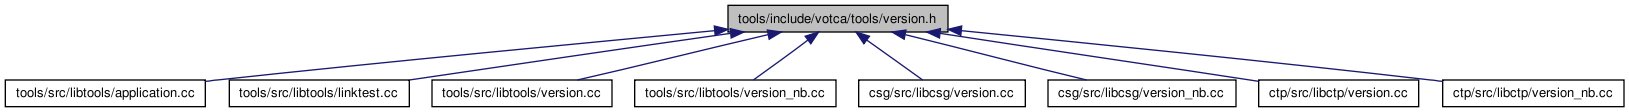
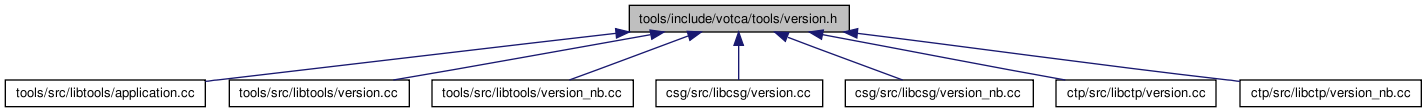
Documentation update

diff --git a/globals.html b/globals.html
@@ -87,30 +87,29 @@ Here is a list of all file members with links to the files they belong to:
 </ul>
 <h3><a class="anchor" name="index_m">- m -</a></h3><ul>
 <li>main()
-: <a class="el" href="linktest_8cc.html#3c04138a5bfe5d72780bb7e82a18e627">linktest.cc</a>
-, <a class="el" href="votca__property_8cc.html#3c04138a5bfe5d72780bb7e82a18e627">votca_property.cc</a>
-, <a class="el" href="template__threaded_8cc.html#3c04138a5bfe5d72780bb7e82a18e627">template_threaded.cc</a>
+: <a class="el" href="votca__property_8cc.html#3c04138a5bfe5d72780bb7e82a18e627">votca_property.cc</a>
+, <a class="el" href="template__serial_8cc.html#3c04138a5bfe5d72780bb7e82a18e627">template_serial.cc</a>
+, <a class="el" href="main_8cc.html#3c04138a5bfe5d72780bb7e82a18e627">main.cc</a>
 , <a class="el" href="polymer_8cc.html#3c04138a5bfe5d72780bb7e82a18e627">polymer.cc</a>
 , <a class="el" href="ctp__run_8cc.html#3c04138a5bfe5d72780bb7e82a18e627">ctp_run.cc</a>
 , <a class="el" href="ctp__map_8cc.html#3c04138a5bfe5d72780bb7e82a18e627">ctp_map.cc</a>
 , <a class="el" href="ctp__connectivity_8cc.html#3c04138a5bfe5d72780bb7e82a18e627">ctp_connectivity.cc</a>
 , <a class="el" href="kmc__run_8cc.html#3c04138a5bfe5d72780bb7e82a18e627">kmc_run.cc</a>
 , <a class="el" href="write__S_8cc.html#3c04138a5bfe5d72780bb7e82a18e627">write_S.cc</a>
-, <a class="el" href="write__MO_8cc.html#3c04138a5bfe5d72780bb7e82a18e627">write_MO.cc</a>
-, <a class="el" href="csg__dump_8cc.html#3c04138a5bfe5d72780bb7e82a18e627">csg_dump.cc</a>
+, <a class="el" href="csg__fmatch_8cc.html#3c04138a5bfe5d72780bb7e82a18e627">csg_fmatch.cc</a>
+, <a class="el" href="write__EV_8cc.html#3c04138a5bfe5d72780bb7e82a18e627">write_EV.cc</a>
 , <a class="el" href="moo__overlap_8cc.html#3c04138a5bfe5d72780bb7e82a18e627">moo_overlap.cc</a>
 , <a class="el" href="csg__stat_8cc.html#3c04138a5bfe5d72780bb7e82a18e627">csg_stat.cc</a>
 , <a class="el" href="csg__resample_8cc.html#3c04138a5bfe5d72780bb7e82a18e627">csg_resample.cc</a>
 , <a class="el" href="csg__property_8cc.html#3c04138a5bfe5d72780bb7e82a18e627">csg_property.cc</a>
 , <a class="el" href="csg__map_8cc.html#3c04138a5bfe5d72780bb7e82a18e627">csg_map.cc</a>
 , <a class="el" href="csg__imcrepack_8cc.html#3c04138a5bfe5d72780bb7e82a18e627">csg_imcrepack.cc</a>
+, <a class="el" href="write__MO_8cc.html#3c04138a5bfe5d72780bb7e82a18e627">write_MO.cc</a>
 , <a class="el" href="csg__gmxtopol_8cc.html#3c04138a5bfe5d72780bb7e82a18e627">csg_gmxtopol.cc</a>
-, <a class="el" href="write__EV_8cc.html#3c04138a5bfe5d72780bb7e82a18e627">write_EV.cc</a>
-, <a class="el" href="csg__fmatch_8cc.html#3c04138a5bfe5d72780bb7e82a18e627">csg_fmatch.cc</a>
+, <a class="el" href="csg__dump_8cc.html#3c04138a5bfe5d72780bb7e82a18e627">csg_dump.cc</a>
 , <a class="el" href="csg__density_8cc.html#3c04138a5bfe5d72780bb7e82a18e627">csg_density.cc</a>
 , <a class="el" href="gmx__print__version_8cc.html#3c04138a5bfe5d72780bb7e82a18e627">gmx_print_version.cc</a>
-, <a class="el" href="main_8cc.html#3c04138a5bfe5d72780bb7e82a18e627">main.cc</a>
-, <a class="el" href="template__serial_8cc.html#3c04138a5bfe5d72780bb7e82a18e627">template_serial.cc</a>
+, <a class="el" href="template__threaded_8cc.html#3c04138a5bfe5d72780bb7e82a18e627">template_threaded.cc</a>
 <li>MARS_FIELD_SIZE
 : <a class="el" href="random_8h.html#e87c025ece2e5e52ad4892728d25e385">random.h</a>
 <li>modnum()

diff --git a/globals_func.html b/globals_func.html
@@ -63,8 +63,8 @@
 </ul>
 <h3><a class="anchor" name="index_m">- m -</a></h3><ul>
 <li>main()
-: <a class="el" href="linktest_8cc.html#3c04138a5bfe5d72780bb7e82a18e627">linktest.cc</a>
-, <a class="el" href="votca__property_8cc.html#3c04138a5bfe5d72780bb7e82a18e627">votca_property.cc</a>
+: <a class="el" href="votca__property_8cc.html#3c04138a5bfe5d72780bb7e82a18e627">votca_property.cc</a>
+, <a class="el" href="template__serial_8cc.html#3c04138a5bfe5d72780bb7e82a18e627">template_serial.cc</a>
 , <a class="el" href="polymer_8cc.html#3c04138a5bfe5d72780bb7e82a18e627">polymer.cc</a>
 , <a class="el" href="ctp__run_8cc.html#3c04138a5bfe5d72780bb7e82a18e627">ctp_run.cc</a>
 , <a class="el" href="ctp__map_8cc.html#3c04138a5bfe5d72780bb7e82a18e627">ctp_map.cc</a>
@@ -72,8 +72,8 @@
 , <a class="el" href="kmc__run_8cc.html#3c04138a5bfe5d72780bb7e82a18e627">kmc_run.cc</a>
 , <a class="el" href="write__S_8cc.html#3c04138a5bfe5d72780bb7e82a18e627">write_S.cc</a>
 , <a class="el" href="write__MO_8cc.html#3c04138a5bfe5d72780bb7e82a18e627">write_MO.cc</a>
-, <a class="el" href="write__EV_8cc.html#3c04138a5bfe5d72780bb7e82a18e627">write_EV.cc</a>
-, <a class="el" href="template__threaded_8cc.html#3c04138a5bfe5d72780bb7e82a18e627">template_threaded.cc</a>
+, <a class="el" href="main_8cc.html#3c04138a5bfe5d72780bb7e82a18e627">main.cc</a>
+, <a class="el" href="moo__overlap_8cc.html#3c04138a5bfe5d72780bb7e82a18e627">moo_overlap.cc</a>
 , <a class="el" href="csg__stat_8cc.html#3c04138a5bfe5d72780bb7e82a18e627">csg_stat.cc</a>
 , <a class="el" href="csg__resample_8cc.html#3c04138a5bfe5d72780bb7e82a18e627">csg_resample.cc</a>
 , <a class="el" href="csg__property_8cc.html#3c04138a5bfe5d72780bb7e82a18e627">csg_property.cc</a>
@@ -84,9 +84,8 @@
 , <a class="el" href="csg__dump_8cc.html#3c04138a5bfe5d72780bb7e82a18e627">csg_dump.cc</a>
 , <a class="el" href="csg__density_8cc.html#3c04138a5bfe5d72780bb7e82a18e627">csg_density.cc</a>
 , <a class="el" href="gmx__print__version_8cc.html#3c04138a5bfe5d72780bb7e82a18e627">gmx_print_version.cc</a>
-, <a class="el" href="main_8cc.html#3c04138a5bfe5d72780bb7e82a18e627">main.cc</a>
-, <a class="el" href="moo__overlap_8cc.html#3c04138a5bfe5d72780bb7e82a18e627">moo_overlap.cc</a>
-, <a class="el" href="template__serial_8cc.html#3c04138a5bfe5d72780bb7e82a18e627">template_serial.cc</a>
+, <a class="el" href="write__EV_8cc.html#3c04138a5bfe5d72780bb7e82a18e627">write_EV.cc</a>
+, <a class="el" href="template__threaded_8cc.html#3c04138a5bfe5d72780bb7e82a18e627">template_threaded.cc</a>
 <li>modnum()
 : <a class="el" href="mergeorbitals_8f90.html#490743f0667a977dd4bd48946dbf0a00">mergeorbitals.f90</a>
 </ul>

diff --git a/tools_2include_2votca_2tools_2version_8h.html b/tools_2include_2votca_2tools_2version_8h.html
@@ -38,7 +38,7 @@ This graph shows which files directly or indirectly include this file:</div>
 <div class="dynsection">
 <p><center><img src="tools_2include_2votca_2tools_2version_8h__dep__incl.png" border="0" usemap="#tools/include/votca/tools/version.hdep_map" alt=""></center>
 <map name="tools/include/votca/tools/version.hdep_map">
-<area shape="rect" href="application_8cc.html" title="tools/src/libtools/application.cc" alt="" coords="5,80,205,107"><area shape="rect" href="linktest_8cc.html" title="tools/src/libtools/linktest.cc" alt="" coords="229,80,408,107"><area shape="rect" href="tools_2src_2libtools_2version_8cc.html" title="tools/src/libtools/version.cc" alt="" coords="432,80,611,107"><area shape="rect" href="tools_2src_2libtools_2version__nb_8cc.html" title="tools/src/libtools/version_nb.cc" alt="" coords="635,80,835,107"><area shape="rect" href="csg_2src_2libcsg_2version_8cc.html" title="csg/src/libcsg/version.cc" alt="" coords="859,80,1024,107"><area shape="rect" href="csg_2src_2libcsg_2version__nb_8cc.html" title="csg/src/libcsg/version_nb.cc" alt="" coords="1048,80,1235,107"><area shape="rect" href="ctp_2src_2libctp_2version_8cc.html" title="ctp/src/libctp/version.cc" alt="" coords="1259,80,1419,107"><area shape="rect" href="ctp_2src_2libctp_2version__nb_8cc.html" title="ctp/src/libctp/version_nb.cc" alt="" coords="1443,80,1624,107"></map>
+<area shape="rect" href="application_8cc.html" title="tools/src/libtools/application.cc" alt="" coords="5,80,205,107"><area shape="rect" href="tools_2src_2libtools_2version_8cc.html" title="tools/src/libtools/version.cc" alt="" coords="229,80,408,107"><area shape="rect" href="tools_2src_2libtools_2version__nb_8cc.html" title="tools/src/libtools/version_nb.cc" alt="" coords="432,80,632,107"><area shape="rect" href="csg_2src_2libcsg_2version_8cc.html" title="csg/src/libcsg/version.cc" alt="" coords="656,80,821,107"><area shape="rect" href="csg_2src_2libcsg_2version__nb_8cc.html" title="csg/src/libcsg/version_nb.cc" alt="" coords="845,80,1032,107"><area shape="rect" href="ctp_2src_2libctp_2version_8cc.html" title="ctp/src/libctp/version.cc" alt="" coords="1056,80,1216,107"><area shape="rect" href="ctp_2src_2libctp_2version__nb_8cc.html" title="ctp/src/libctp/version_nb.cc" alt="" coords="1240,80,1421,107"></map>
 </div>
 
 <p>

diff --git a/csg__fmatch_8cc_source.html b/csg__fmatch_8cc_source.html
@@ -53,7 +53,7 @@
 <a name="l00030"></a>00030 <span class="preprocessor">#include &lt;<a class="code" href="table_8h.html">votca/tools/table.h</a>&gt;</span>
 <a name="l00031"></a>00031 <span class="preprocessor">#include &lt;<a class="code" href="linalg_8h.html">votca/tools/linalg.h</a>&gt;</span>
 <a name="l00032"></a>00032 
-<a name="l00033"></a><a class="code" href="csg__fmatch_8cc.html#3c04138a5bfe5d72780bb7e82a18e627">00033</a> <span class="keywordtype">int</span> <a class="code" href="linktest_8cc.html#3c04138a5bfe5d72780bb7e82a18e627">main</a>(<span class="keywordtype">int</span> argc, <span class="keywordtype">char</span>** argv)
+<a name="l00033"></a><a class="code" href="csg__fmatch_8cc.html#3c04138a5bfe5d72780bb7e82a18e627">00033</a> <span class="keywordtype">int</span> <a class="code" href="votca__property_8cc.html#3c04138a5bfe5d72780bb7e82a18e627">main</a>(<span class="keywordtype">int</span> argc, <span class="keywordtype">char</span>** argv)
 <a name="l00034"></a>00034 {
 <a name="l00035"></a>00035     <a class="code" href="classCGForceMatching.html" title="Implements force matching algorithm using cubic spline basis set.">CGForceMatching</a> app;
 <a name="l00036"></a>00036     <span class="keywordflow">return</span> app.<a class="code" href="classvotca_1_1tools_1_1Application.html#0bb87eabaf46ec27e9443b3fc4b84880" title="executes the program">Exec</a>(argc, argv);

diff --git a/ctp__connectivity_8cc_source.html b/ctp__connectivity_8cc_source.html
@@ -191,7 +191,7 @@
 <a name="l00168"></a><a class="code" href="classQMAppConnectivity.html#4b02a4cb4e2fe560c00bb2bc63a9e952">00168</a>     <span class="keywordtype">double</span> <a class="code" href="classQMAppConnectivity.html#323d2c0b67acabe6fde20577e4f83855">scale1</a>,<a class="code" href="classQMAppConnectivity.html#4b02a4cb4e2fe560c00bb2bc63a9e952">scale2</a>;
 <a name="l00169"></a>00169 };
 <a name="l00170"></a>00170 
-<a name="l00171"></a><a class="code" href="ctp__connectivity_8cc.html#3c04138a5bfe5d72780bb7e82a18e627">00171</a> <span class="keywordtype">int</span> <a class="code" href="linktest_8cc.html#3c04138a5bfe5d72780bb7e82a18e627">main</a>(<span class="keywordtype">int</span> argc, <span class="keywordtype">char</span>** argv) {
+<a name="l00171"></a><a class="code" href="ctp__connectivity_8cc.html#3c04138a5bfe5d72780bb7e82a18e627">00171</a> <span class="keywordtype">int</span> <a class="code" href="votca__property_8cc.html#3c04138a5bfe5d72780bb7e82a18e627">main</a>(<span class="keywordtype">int</span> argc, <span class="keywordtype">char</span>** argv) {
 <a name="l00172"></a>00172     <a class="code" href="classQMAppConnectivity.html">QMAppConnectivity</a> qmappcon;
 <a name="l00173"></a>00173     qmappcon.Run(argc, argv);
 <a name="l00174"></a>00174     <span class="keywordflow">return</span> (EXIT_SUCCESS);

diff --git a/csg__stat_8cc_source.html b/csg__stat_8cc_source.html
@@ -133,7 +133,7 @@
 <a name="l00110"></a>00110     <a class="code" href="classCsgStatApp.html#3bafa0d73bf49b598354a6bb81caffc9">_imc</a>.<a class="code" href="classvotca_1_1csg_1_1Imc.html#3210bb97aeb7d0228fdb19a9591edf40" title="end coarse graining a trajectory">EndEvaluate</a>();
 <a name="l00111"></a>00111 }
 <a name="l00112"></a>00112 
-<a name="l00113"></a><a class="code" href="csg__stat_8cc.html#3c04138a5bfe5d72780bb7e82a18e627">00113</a> <span class="keywordtype">int</span> <a class="code" href="linktest_8cc.html#3c04138a5bfe5d72780bb7e82a18e627">main</a>(<span class="keywordtype">int</span> argc, <span class="keywordtype">char</span>** argv)
+<a name="l00113"></a><a class="code" href="csg__stat_8cc.html#3c04138a5bfe5d72780bb7e82a18e627">00113</a> <span class="keywordtype">int</span> <a class="code" href="votca__property_8cc.html#3c04138a5bfe5d72780bb7e82a18e627">main</a>(<span class="keywordtype">int</span> argc, <span class="keywordtype">char</span>** argv)
 <a name="l00114"></a>00114 {
 <a name="l00115"></a>00115     <a class="code" href="classCsgStatApp.html">CsgStatApp</a> app;
 <a name="l00116"></a>00116     <span class="keywordflow">return</span> app.<a class="code" href="classvotca_1_1tools_1_1Application.html#0bb87eabaf46ec27e9443b3fc4b84880" title="executes the program">Exec</a>(argc, argv);

diff --git a/files.html b/files.html
@@ -267,7 +267,6 @@
   <tr><td class="indexkey">tools/src/libtools/<a class="el" href="histogram_8cc.html">histogram.cc</a> <a href="histogram_8cc_source.html">[code]</a></td><td class="indexvalue"></td></tr>
   <tr><td class="indexkey">tools/src/libtools/<a class="el" href="histogramnew_8cc.html">histogramnew.cc</a> <a href="histogramnew_8cc_source.html">[code]</a></td><td class="indexvalue"></td></tr>
   <tr><td class="indexkey">tools/src/libtools/<a class="el" href="linalg_8cc.html">linalg.cc</a> <a href="linalg_8cc_source.html">[code]</a></td><td class="indexvalue"></td></tr>
-  <tr><td class="indexkey">tools/src/libtools/<a class="el" href="linktest_8cc.html">linktest.cc</a> <a href="linktest_8cc_source.html">[code]</a></td><td class="indexvalue"></td></tr>
   <tr><td class="indexkey">tools/src/libtools/<a class="el" href="linspline_8cc.html">linspline.cc</a> <a href="linspline_8cc_source.html">[code]</a></td><td class="indexvalue"></td></tr>
   <tr><td class="indexkey">tools/src/libtools/<a class="el" href="matrix_8cc.html">matrix.cc</a> <a href="matrix_8cc_source.html">[code]</a></td><td class="indexvalue"></td></tr>
   <tr><td class="indexkey">tools/src/libtools/<a class="el" href="mutex_8cc.html">mutex.cc</a> <a href="mutex_8cc_source.html">[code]</a></td><td class="indexvalue"></td></tr>

diff --git a/csg__dump_8cc_source.html b/csg__dump_8cc_source.html
@@ -62,7 +62,7 @@
 <a name="l00039"></a><a class="code" href="classCsgDumpApp.html#ce8a7bdb79f4952ff6e4401c0d44d8da">00039</a>     <span class="keywordtype">bool</span> <a class="code" href="classCsgDumpApp.html#ce8a7bdb79f4952ff6e4401c0d44d8da" title="if DoMapping is true, will by default require mapping or not">DoMappingDefault</a>(<span class="keywordtype">void</span>) { <span class="keywordflow">return</span> <span class="keyword">false</span>; }
 <a name="l00040"></a>00040 };
 <a name="l00041"></a>00041 
-<a name="l00042"></a><a class="code" href="csg__dump_8cc.html#3c04138a5bfe5d72780bb7e82a18e627">00042</a> <span class="keywordtype">int</span> <a class="code" href="linktest_8cc.html#3c04138a5bfe5d72780bb7e82a18e627">main</a>(<span class="keywordtype">int</span> argc, <span class="keywordtype">char</span>** argv)
+<a name="l00042"></a><a class="code" href="csg__dump_8cc.html#3c04138a5bfe5d72780bb7e82a18e627">00042</a> <span class="keywordtype">int</span> <a class="code" href="votca__property_8cc.html#3c04138a5bfe5d72780bb7e82a18e627">main</a>(<span class="keywordtype">int</span> argc, <span class="keywordtype">char</span>** argv)
 <a name="l00043"></a>00043 {
 <a name="l00044"></a>00044     <a class="code" href="classCsgDumpApp.html">CsgDumpApp</a> app;
 <a name="l00045"></a>00045 

diff --git a/csg__map_8cc_source.html b/csg__map_8cc_source.html
@@ -176,7 +176,7 @@
 <a name="l00153"></a>00153     <a class="code" href="classCsgMapApp.html#359821652234bca96ba32b92e4c3e283">_writer</a>-&gt;<a class="code" href="classvotca_1_1csg_1_1TrajectoryWriter.html#03d43187287006689a328d84af03f45b">Open</a>(out);
 <a name="l00154"></a>00154 };
 <a name="l00155"></a>00155 
-<a name="l00156"></a><a class="code" href="csg__map_8cc.html#3c04138a5bfe5d72780bb7e82a18e627">00156</a> <span class="keywordtype">int</span> <a class="code" href="linktest_8cc.html#3c04138a5bfe5d72780bb7e82a18e627">main</a>(<span class="keywordtype">int</span> argc, <span class="keywordtype">char</span> **argv)
+<a name="l00156"></a><a class="code" href="csg__map_8cc.html#3c04138a5bfe5d72780bb7e82a18e627">00156</a> <span class="keywordtype">int</span> <a class="code" href="votca__property_8cc.html#3c04138a5bfe5d72780bb7e82a18e627">main</a>(<span class="keywordtype">int</span> argc, <span class="keywordtype">char</span> **argv)
 <a name="l00157"></a>00157 {
 <a name="l00158"></a>00158     <a class="code" href="classCsgMapApp.html">CsgMapApp</a> app;
 <a name="l00159"></a>00159     <span class="keywordflow">return</span> app.<a class="code" href="classvotca_1_1tools_1_1Application.html#0bb87eabaf46ec27e9443b3fc4b84880" title="executes the program">Exec</a>(argc, argv);

diff --git a/ctp__map_8cc_source.html b/ctp__map_8cc_source.html
@@ -103,7 +103,7 @@
 <a name="l00080"></a>00080     <a class="code" href="classCtpMapApp.html#d72ee3cb2cfccc5eef0122b68d581d24" title="called before the first frame">CsgApplication::BeginEvaluate</a>(top, top_ref);
 <a name="l00081"></a>00081 }
 <a name="l00082"></a>00082 
-<a name="l00083"></a><a class="code" href="ctp__map_8cc.html#3c04138a5bfe5d72780bb7e82a18e627">00083</a> <span class="keywordtype">int</span> <a class="code" href="linktest_8cc.html#3c04138a5bfe5d72780bb7e82a18e627">main</a>(<span class="keywordtype">int</span> argc, <span class="keywordtype">char</span>** argv)
+<a name="l00083"></a><a class="code" href="ctp__map_8cc.html#3c04138a5bfe5d72780bb7e82a18e627">00083</a> <span class="keywordtype">int</span> <a class="code" href="votca__property_8cc.html#3c04138a5bfe5d72780bb7e82a18e627">main</a>(<span class="keywordtype">int</span> argc, <span class="keywordtype">char</span>** argv)
 <a name="l00084"></a>00084 {
 <a name="l00085"></a>00085     <a class="code" href="classCtpMapApp.html">CtpMapApp</a> app;
 <a name="l00086"></a>00086     <span class="keywordflow">return</span> app.<a class="code" href="classvotca_1_1tools_1_1Application.html#0bb87eabaf46ec27e9443b3fc4b84880" title="executes the program">Exec</a>(argc, argv);

diff --git a/csg__gmxtopol_8cc_source.html b/csg__gmxtopol_8cc_source.html
@@ -150,7 +150,7 @@
 <a name="l00127"></a>00127     <a class="code" href="classGmxTopolApp.html#4d7fa0d658a116b4dc133e1efdee051b">WriteInteractions</a>(out, cg);
 <a name="l00128"></a>00128 }
 <a name="l00129"></a>00129 
-<a name="l00130"></a><a class="code" href="csg__gmxtopol_8cc.html#3c04138a5bfe5d72780bb7e82a18e627">00130</a> <span class="keywordtype">int</span> <a class="code" href="linktest_8cc.html#3c04138a5bfe5d72780bb7e82a18e627">main</a>(<span class="keywordtype">int</span> argc, <span class="keywordtype">char</span>** argv)
+<a name="l00130"></a><a class="code" href="csg__gmxtopol_8cc.html#3c04138a5bfe5d72780bb7e82a18e627">00130</a> <span class="keywordtype">int</span> <a class="code" href="votca__property_8cc.html#3c04138a5bfe5d72780bb7e82a18e627">main</a>(<span class="keywordtype">int</span> argc, <span class="keywordtype">char</span>** argv)
 <a name="l00131"></a>00131 {    
 <a name="l00132"></a>00132     <a class="code" href="classGmxTopolApp.html">GmxTopolApp</a> app;
 <a name="l00133"></a>00133     <span class="keywordflow">return</span> app.<a class="code" href="classvotca_1_1tools_1_1Application.html#0bb87eabaf46ec27e9443b3fc4b84880" title="executes the program">Exec</a>(argc, argv);        

diff --git a/csg__property_8cc_source.html b/csg__property_8cc_source.html
@@ -54,7 +54,7 @@
 <a name="l00031"></a>00031     cout &lt;&lt; <span class="stringliteral">"Helper program called by inverse scripts to parse xml file.\n\n"</span>;
 <a name="l00032"></a>00032 }
 <a name="l00033"></a>00033 
-<a name="l00034"></a><a class="code" href="csg__property_8cc.html#3c04138a5bfe5d72780bb7e82a18e627">00034</a> <span class="keywordtype">int</span> <a class="code" href="linktest_8cc.html#3c04138a5bfe5d72780bb7e82a18e627">main</a>(<span class="keywordtype">int</span> argc, <span class="keywordtype">char</span>** argv)
+<a name="l00034"></a><a class="code" href="csg__property_8cc.html#3c04138a5bfe5d72780bb7e82a18e627">00034</a> <span class="keywordtype">int</span> <a class="code" href="votca__property_8cc.html#3c04138a5bfe5d72780bb7e82a18e627">main</a>(<span class="keywordtype">int</span> argc, <span class="keywordtype">char</span>** argv)
 <a name="l00035"></a>00035 {      
 <a name="l00036"></a>00036     <span class="keywordtype">string</span> filter, file, <a class="code" href="namespacemerge__orbitals.html#0a271d8c5186b37a40734af36ed29734">path</a>, print;
 <a name="l00037"></a>00037     <span class="keywordtype">bool</span> short_output = <span class="keyword">false</span>;
